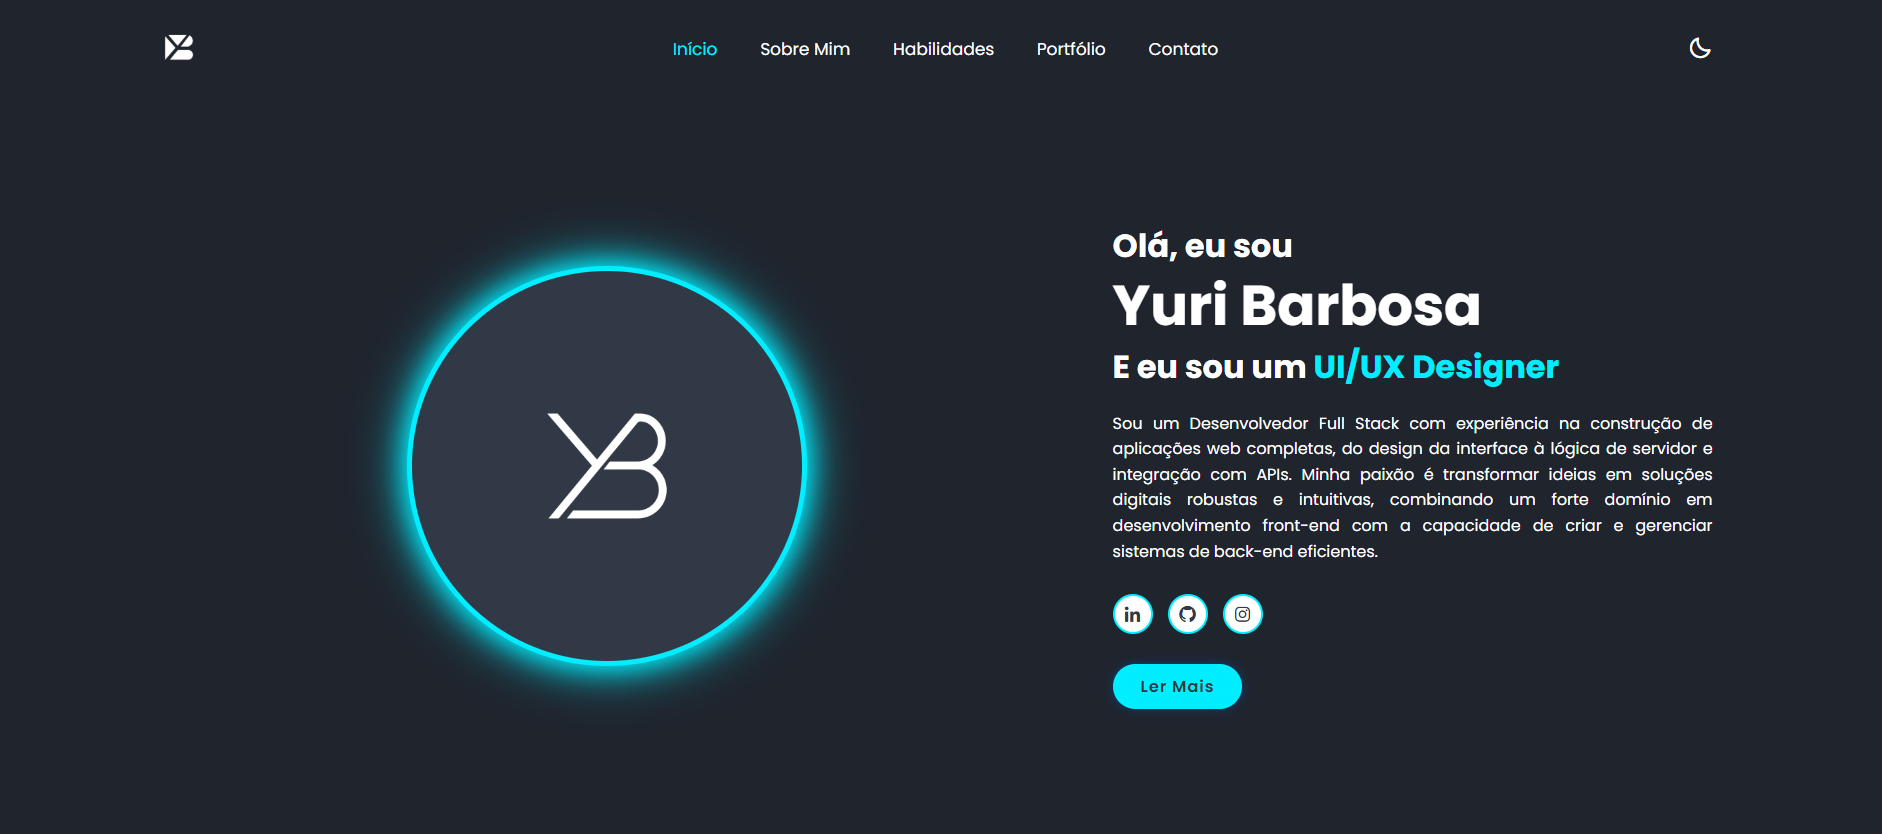
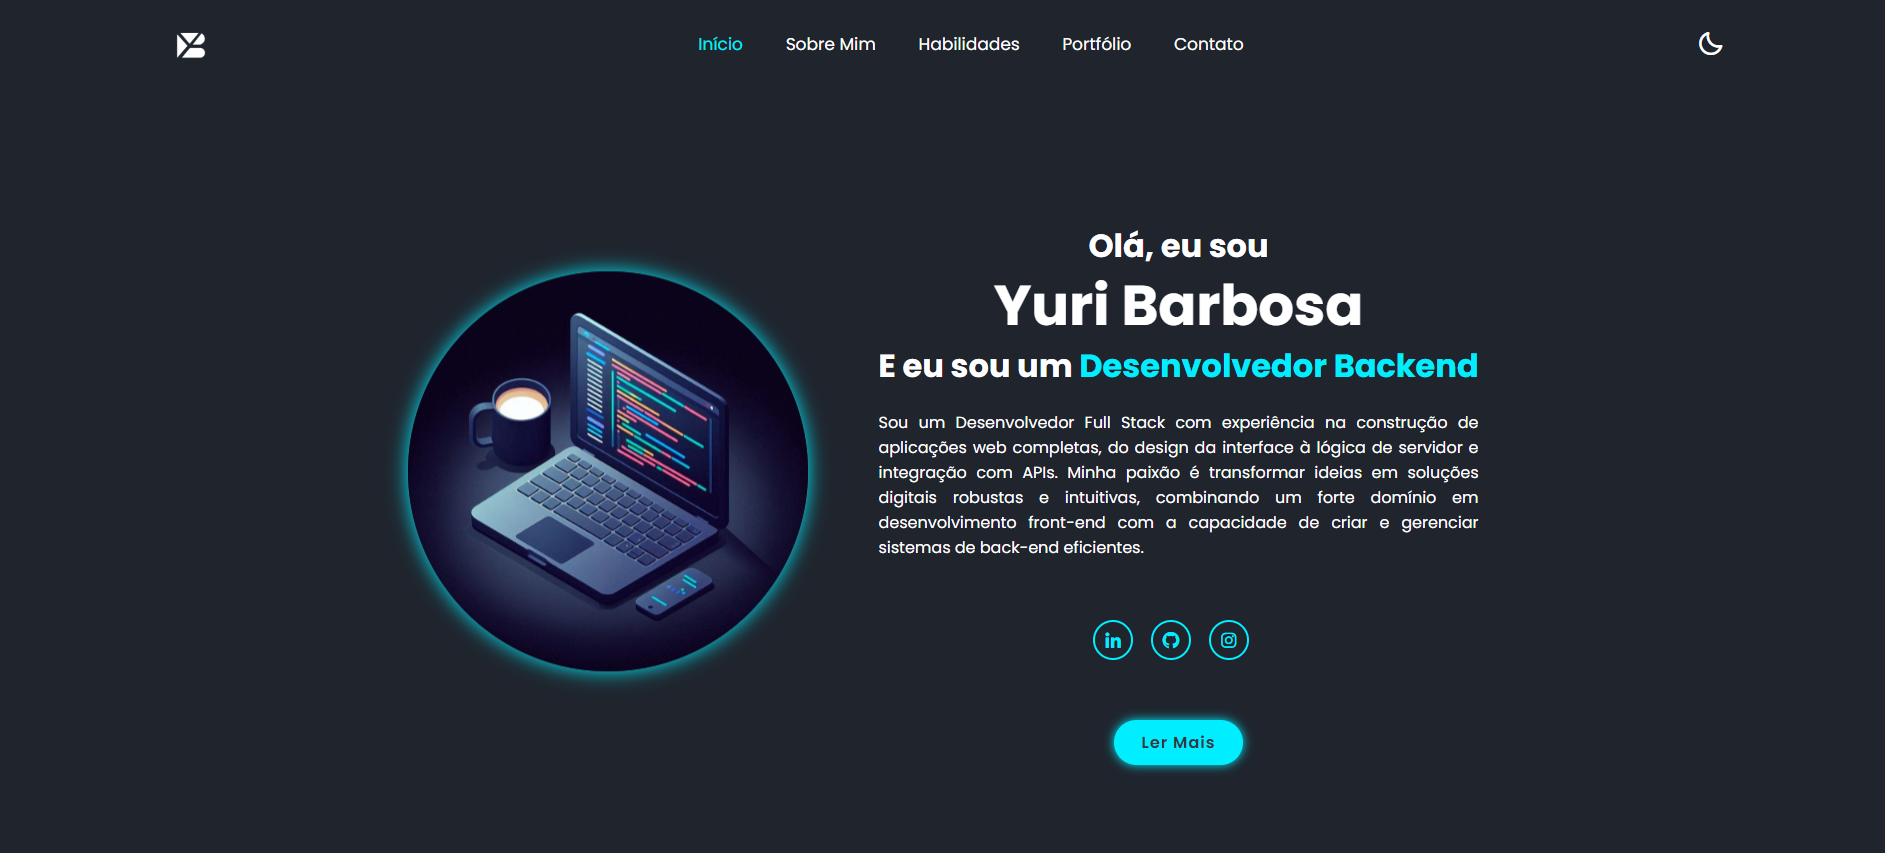
+ atualizacoes=d

diff --git a/index.html b/index.html
@@ -3,7 +3,7 @@
 <head>
     <meta charset="UTF-8">
     <meta name="viewport" content="width=device-width, initial-scale=1.0">
-    <title>Meu Portfólio - Yuri Barbosa</title>
+    <title>Yuri Portfólio</title>
     <link rel="stylesheet" href="style.css">
     <link href="https://fonts.googleapis.com/css2?family=Montserrat:wght@400;700;800;900&display=swap" rel="stylesheet">
     <link href='https://unpkg.com/boxicons@2.1.4/css/boxicons.min.css' rel='stylesheet'>
@@ -28,7 +28,7 @@
 
     <section class="home" id="home">
         <div class="home-image">
-            <img src="img/yuri_perfil.png" alt="Foto de Perfil de Yuri Barbosa">
+            <img src="img/yu_setup.jpg" alt="Foto de Perfil de Yuri Barbosa">
         </div>
 
         <div class="home-content">
@@ -52,7 +52,7 @@
 
         <div class="about-container">
             <div class="about-image">
-                <img src="img/yuri_about.png" alt="Foto de Perfil de Yuri Barbosa na Seção Sobre Mim">
+                <img src="img/yuri_perfil.png" alt="Foto de Perfil de Yuri Barbosa na Seção Sobre Mim">
                 
             </div>
             <div class="about-content">
